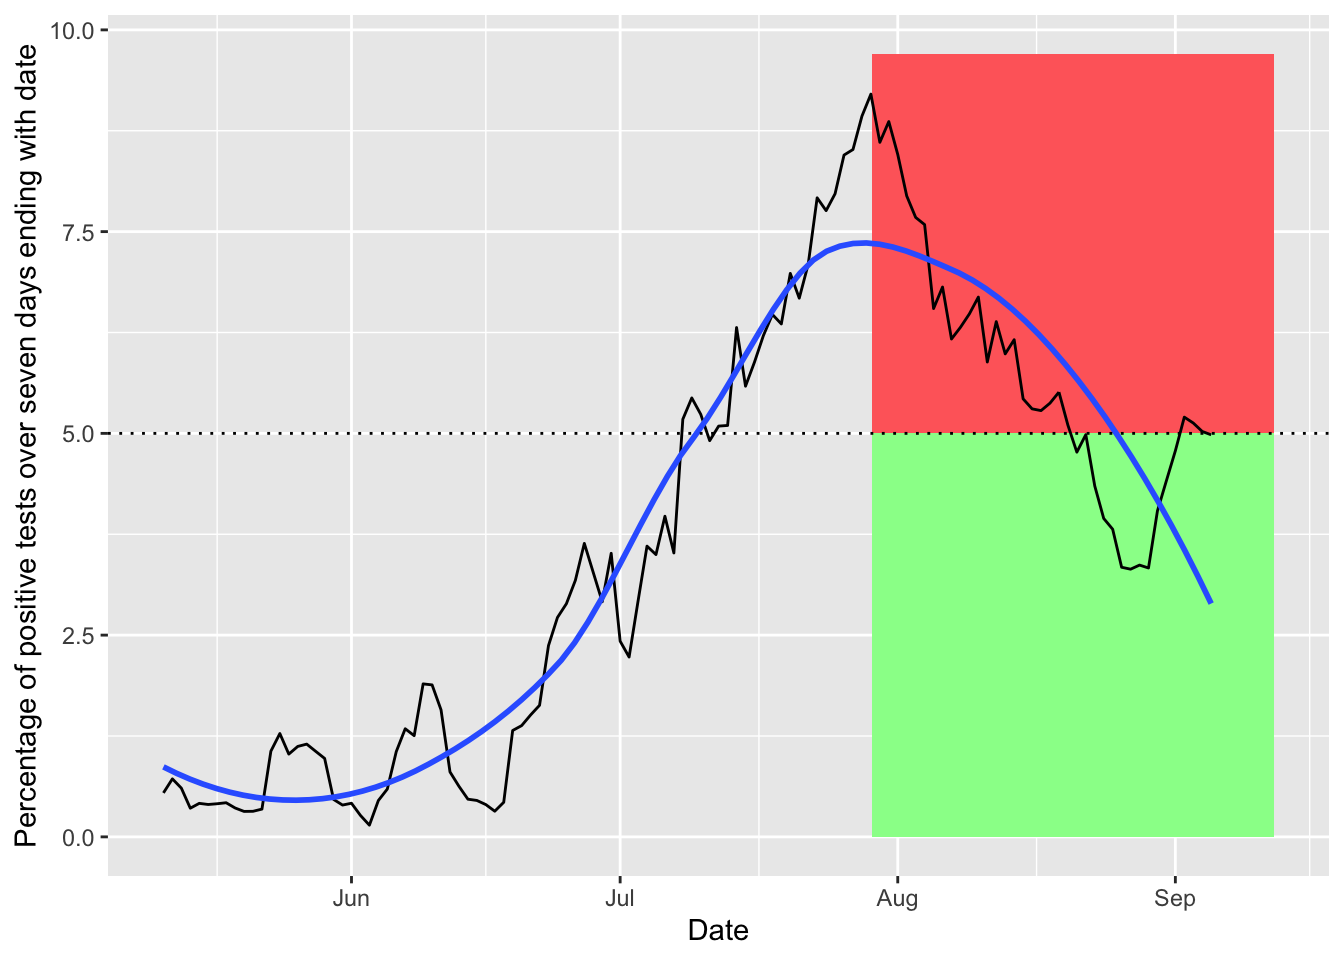
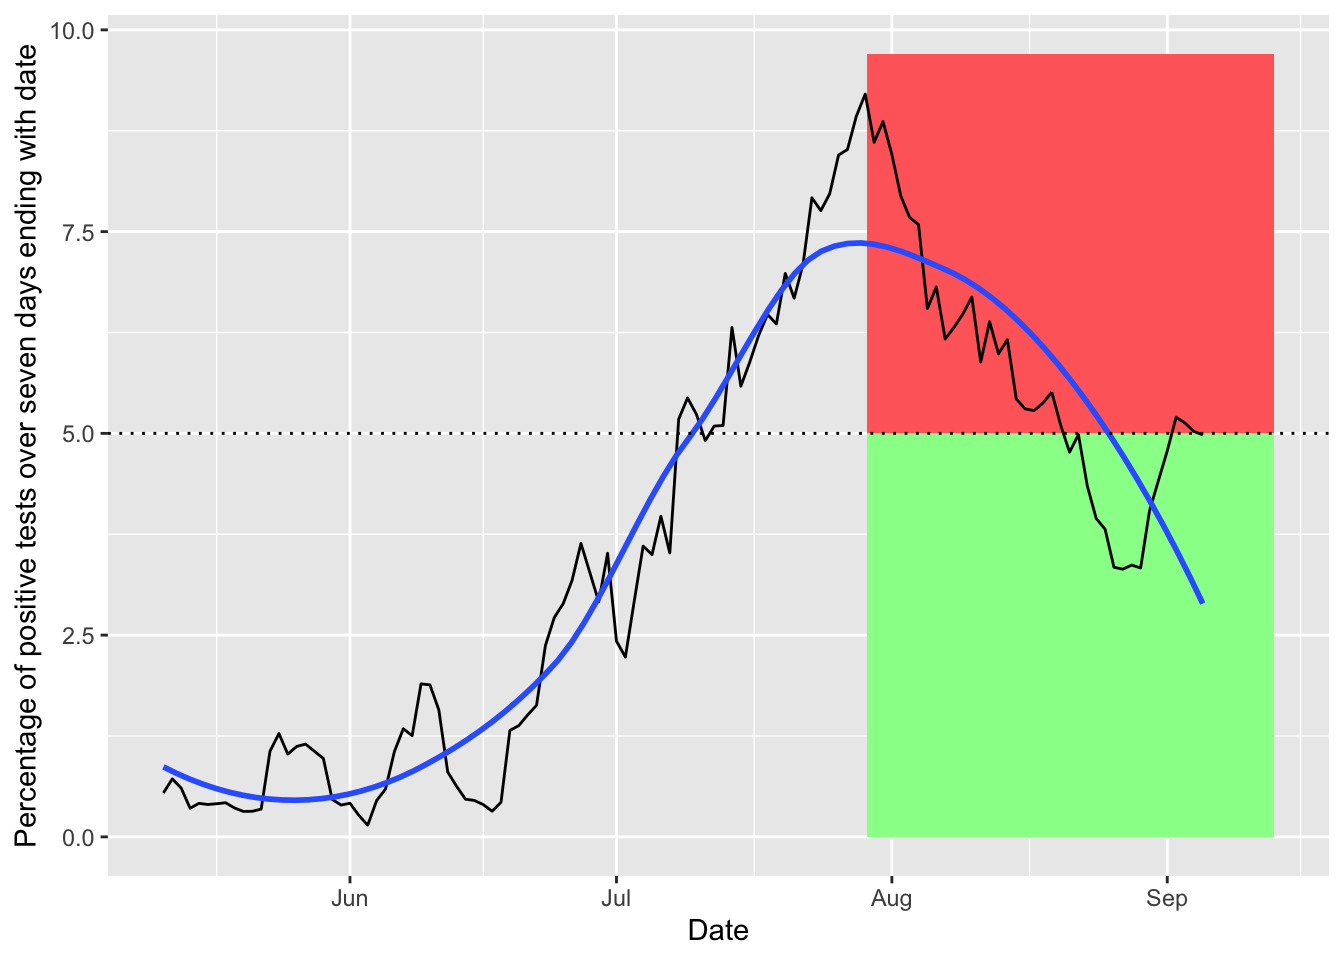
updating site

diff --git a/docs/covid.html b/docs/covid.html
@@ -424,7 +424,7 @@ $(document).ready(function () {
 <li>Info about cases at <a href="#ut">U. of Tennessee, Knoxville</a> (using public information only)</li>
 <li><a href="#webcams">Webcams</a> showing activity at local sites, though not quite at the resolution to point to mask usage or not</li>
 </ul>
-<p>The following plots are created in R using data from <a href="https://covid19datahub.io" class="uri">https://covid19datahub.io</a> (Guidotti, E., Ardia, D., (2020), “COVID-19 Data Hub”, Working paper, doi: 10.13140/RG.2.2.11649.81763), as well as information from Google and the <a href="https://www.tn.gov/health/cedep/ncov/data/downloadable-datasets.html">state of Tennessee dataset page</a> and plotting and analysis using the <code>forecast</code>, <code>ggplot2</code>, <code>reshape2</code>, and <code>dplyr</code> packages. Plots created on 2020-09-05 22:11:54. I use <code>ggplot2</code>’s <code>geom_smooth()</code> function for the smoothed regression plots with its default formula, which uses loess smoothing for this many points. This is not based on a model of disease spread or anything similarly sophisticated, just drawing a smooth curve to summarize noisy points (see <a href="https://www.itl.nist.gov/div898/handbook/pmd/section1/pmd144.htm">here</a> for more details).</p>
+<p>The following plots are created in R using data from <a href="https://covid19datahub.io" class="uri">https://covid19datahub.io</a> (Guidotti, E., Ardia, D., (2020), “COVID-19 Data Hub”, Working paper, doi: 10.13140/RG.2.2.11649.81763), as well as information from Google and the <a href="https://www.tn.gov/health/cedep/ncov/data/downloadable-datasets.html">state of Tennessee dataset page</a> and plotting and analysis using the <code>forecast</code>, <code>ggplot2</code>, <code>reshape2</code>, and <code>dplyr</code> packages. Plots created on 2020-09-06 13:20:57. I use <code>ggplot2</code>’s <code>geom_smooth()</code> function for the smoothed regression plots with its default formula, which uses loess smoothing for this many points. This is not based on a model of disease spread or anything similarly sophisticated, just drawing a smooth curve to summarize noisy points (see <a href="https://www.itl.nist.gov/div898/handbook/pmd/section1/pmd144.htm">here</a> for more details).</p>
 <h2 id="cases">
 Cases
 </h2>
@@ -460,7 +460,7 @@ Schooling
 <h2 id="hospitalization">
 Hospitalization
 </h2>
-<p>As of the last time the data were updated (likely 3 days ago), regional hospitals had 63 ICU beds available of 278 total, and 162 available ventilators out of 244 total. This is based on 19 acute care hospitals in the East TN region; based on the 14 counties these hospitals are in, these serve at least 1,235,720 people. When a line hits 100%, the local hospitals are theoretically full for that resource (for all patients, not just covid patients), though there is surge capacity on top of this. Note that these data are updated only weekly, so current conditions maybe be much better or worse than these plots show. Data on capacity from Knox County’s dashboard, data on hospitalizations and testing over time from the state data.</p>
+<p>As of the last time the data were updated (likely 4 days ago), regional hospitals had 63 ICU beds available of 278 total, and 162 available ventilators out of 244 total. This is based on 19 acute care hospitals in the East TN region; based on the 14 counties these hospitals are in, these serve at least 1,235,720 people. When a line hits 100%, the local hospitals are theoretically full for that resource (for all patients, not just covid patients), though there is surge capacity on top of this. Note that these data are updated only weekly, so current conditions maybe be much better or worse than these plots show. Data on capacity from Knox County’s dashboard, data on hospitalizations and testing over time from the state data.</p>
 <p><img src="covid_files/figure-html/hospitalcapacityplot-1.png" width="672" /></p>
 <p>Trends in hospitalization of covid patients over time. The vertical dotted line shows the last day with updated capacity information, when there were 63 ICU beds available (ignoring surge capacity) for people in the East Tennessee region.</p>
 <p><img src="covid_files/figure-html/plotsD-1.png" width="672" /></p>
